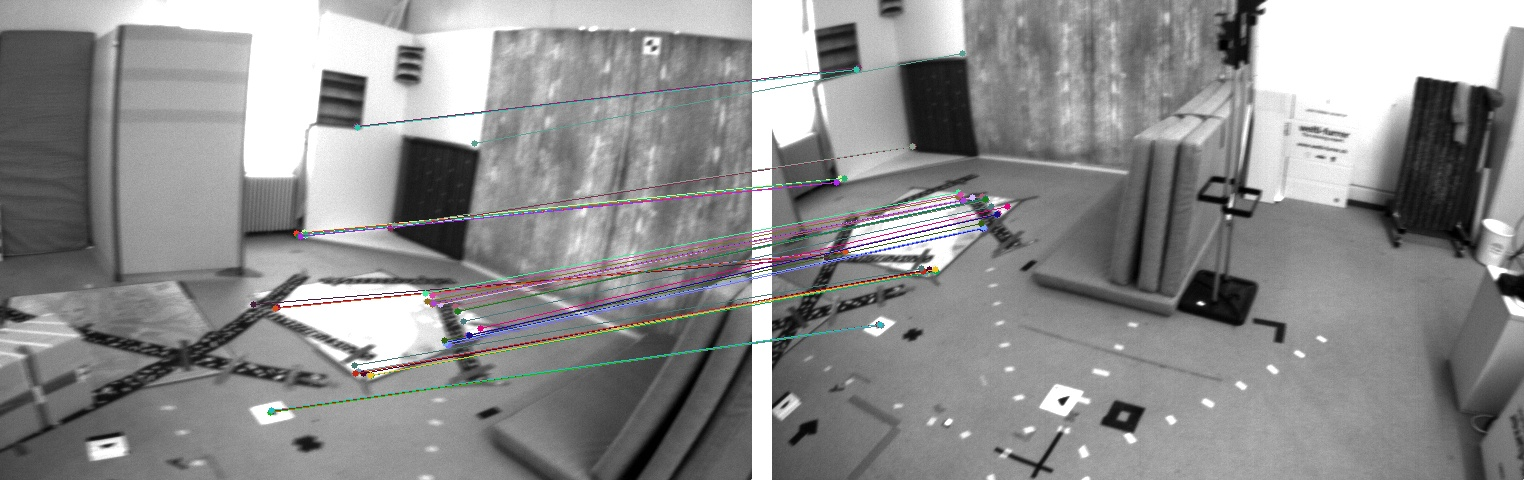
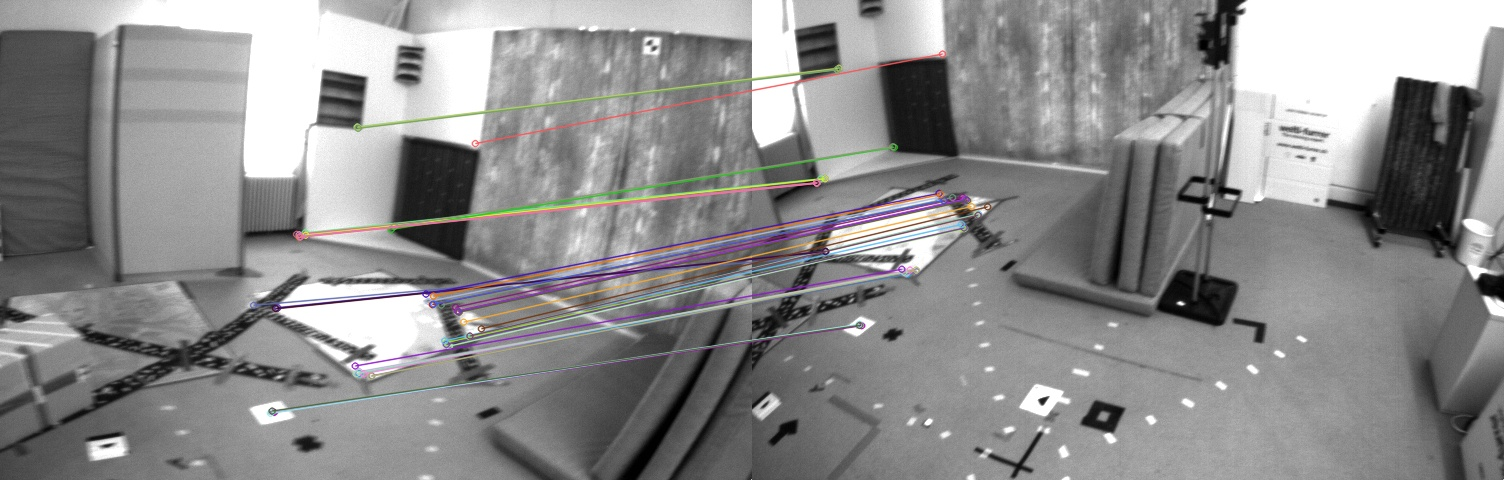
Automated commit: changes in documents/ directory at 2025-07-20 17:03:32

diff --git a/documents/thesis/code/image_feature_matching.py b/documents/thesis/code/image_feature_matching.py
@@ -58,40 +58,8 @@ def main():
     img1_kp = cv2.drawKeypoints(img1, kp1, None, color=(0,255,0), flags=0)
     img2_kp = cv2.drawKeypoints(img2, kp2, None, color=(0,255,0), flags=0)
     
-    # Create combined image with border
-    border_width = 20
-    h1, w1 = img1.shape
-    h2, w2 = img2.shape
-    combined_height = max(h1, h2)
-    combined_width = w1 + w2 + border_width
-    
-    # Create white border between images
-    combined_img = np.zeros((combined_height, combined_width), dtype=np.uint8)
-    combined_img[:h1, :w1] = img1
-    combined_img[:, w1:w1+border_width] = 255  # White border
-    combined_img[:h2, w1+border_width:] = img2
-    
-    # Convert to color for drawing matches
-    combined_img_color = cv2.cvtColor(combined_img, cv2.COLOR_GRAY2BGR)
-    
-    # Adjust keypoint coordinates for the second image
-    kp2_adjusted = []
-    for kp in kp2:
-        adjusted_kp = cv2.KeyPoint(kp.pt[0] + w1 + border_width, kp.pt[1], kp.size, kp.angle, kp.response, kp.octave, kp.class_id)
-        kp2_adjusted.append(adjusted_kp)
-    
-    # Draw matches manually on the combined image
-    img_matches = combined_img_color.copy()
-    for i, match in enumerate(good_matches[:50]):
-        # Get keypoint coordinates
-        pt1 = tuple(map(int, kp1[match.queryIdx].pt))
-        pt2 = tuple(map(int, (kp2[match.trainIdx].pt[0] + w1 + border_width, kp2[match.trainIdx].pt[1])))
-        
-        # Draw line connecting the matches
-        color = tuple(map(int, np.random.randint(0, 255, 3)))  # Random color for each match
-        cv2.line(img_matches, pt1, pt2, color, 1)
-        cv2.circle(img_matches, pt1, 3, color, -1)
-        cv2.circle(img_matches, pt2, 3, color, -1)
+    # Draw matches (limit to top 50 for clarity)
+    img_matches = cv2.drawMatches(img1, kp1, img2, kp2, good_matches[:50], None, flags=cv2.DrawMatchesFlags_NOT_DRAW_SINGLE_POINTS)
     
     # Save images
     base1 = os.path.splitext(os.path.basename(img1_path))[0]
